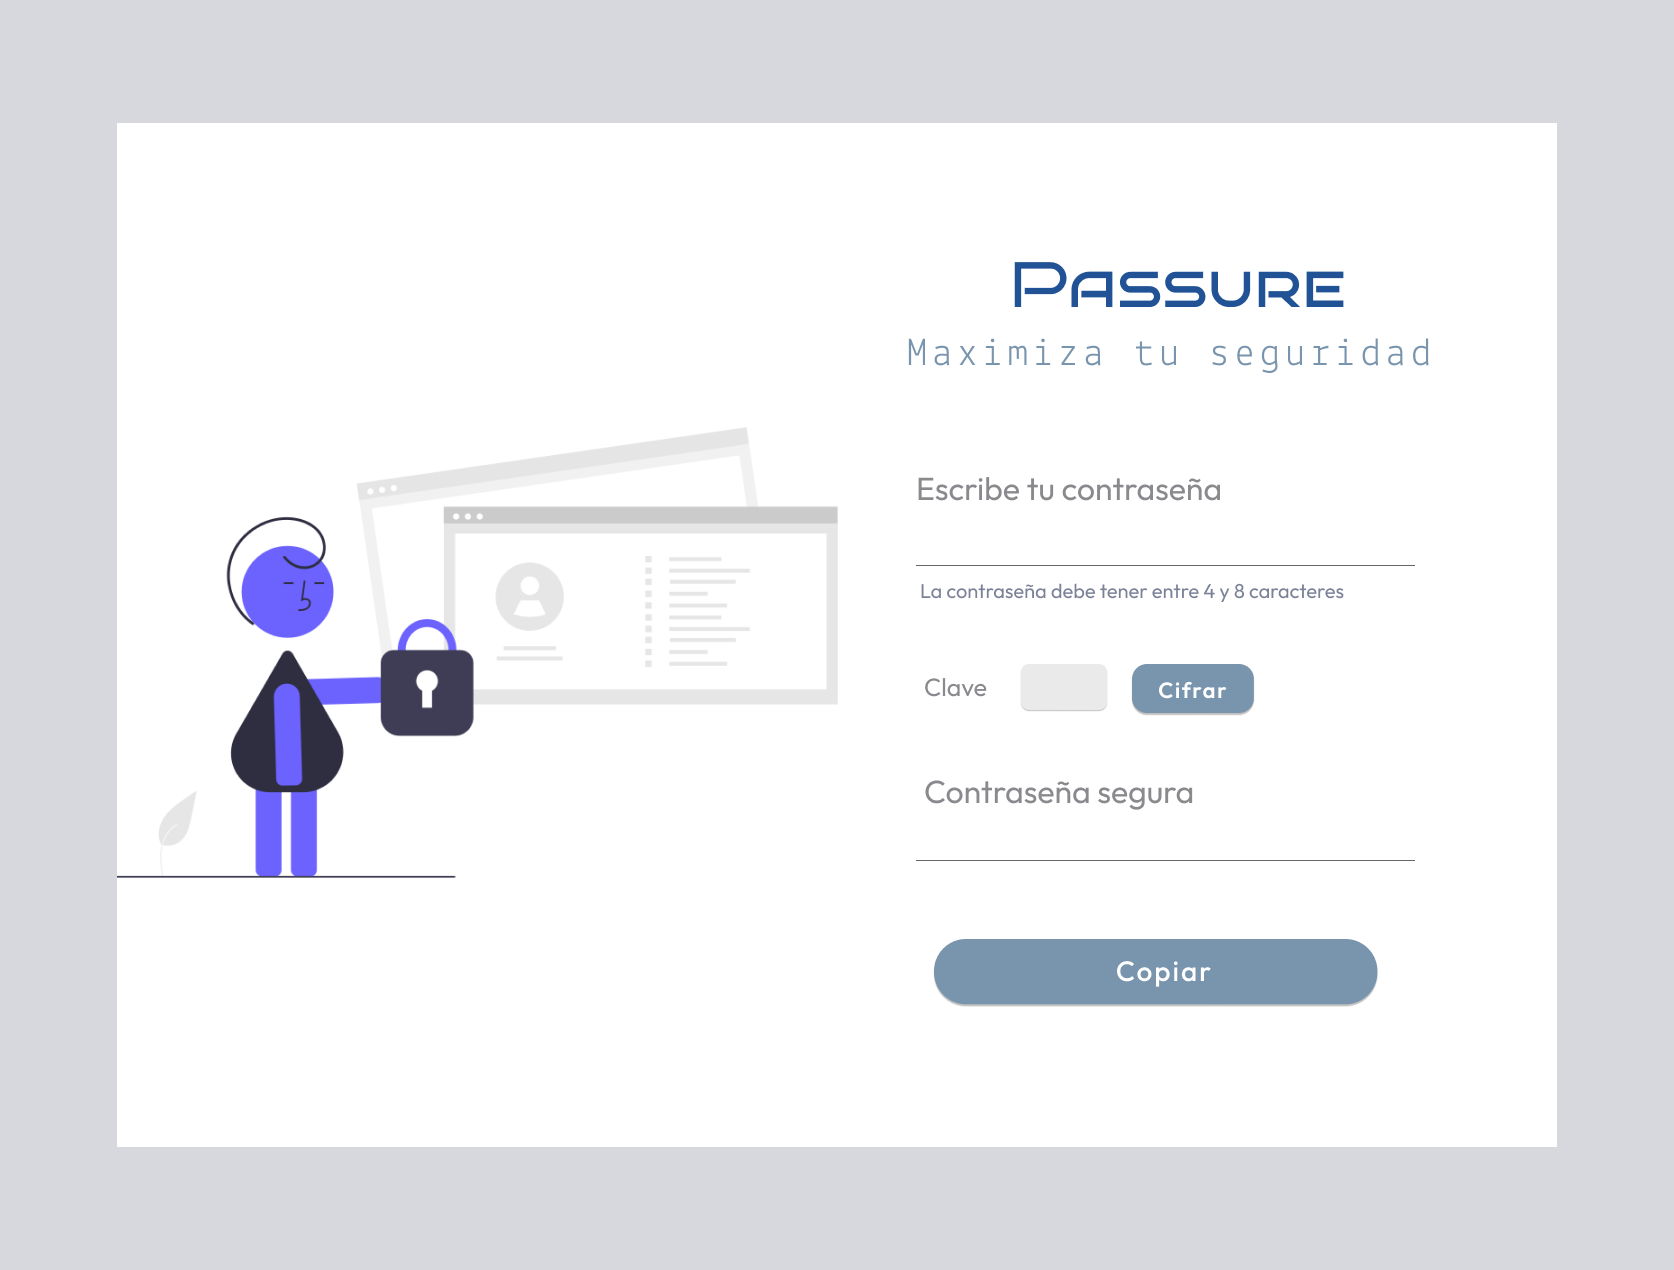
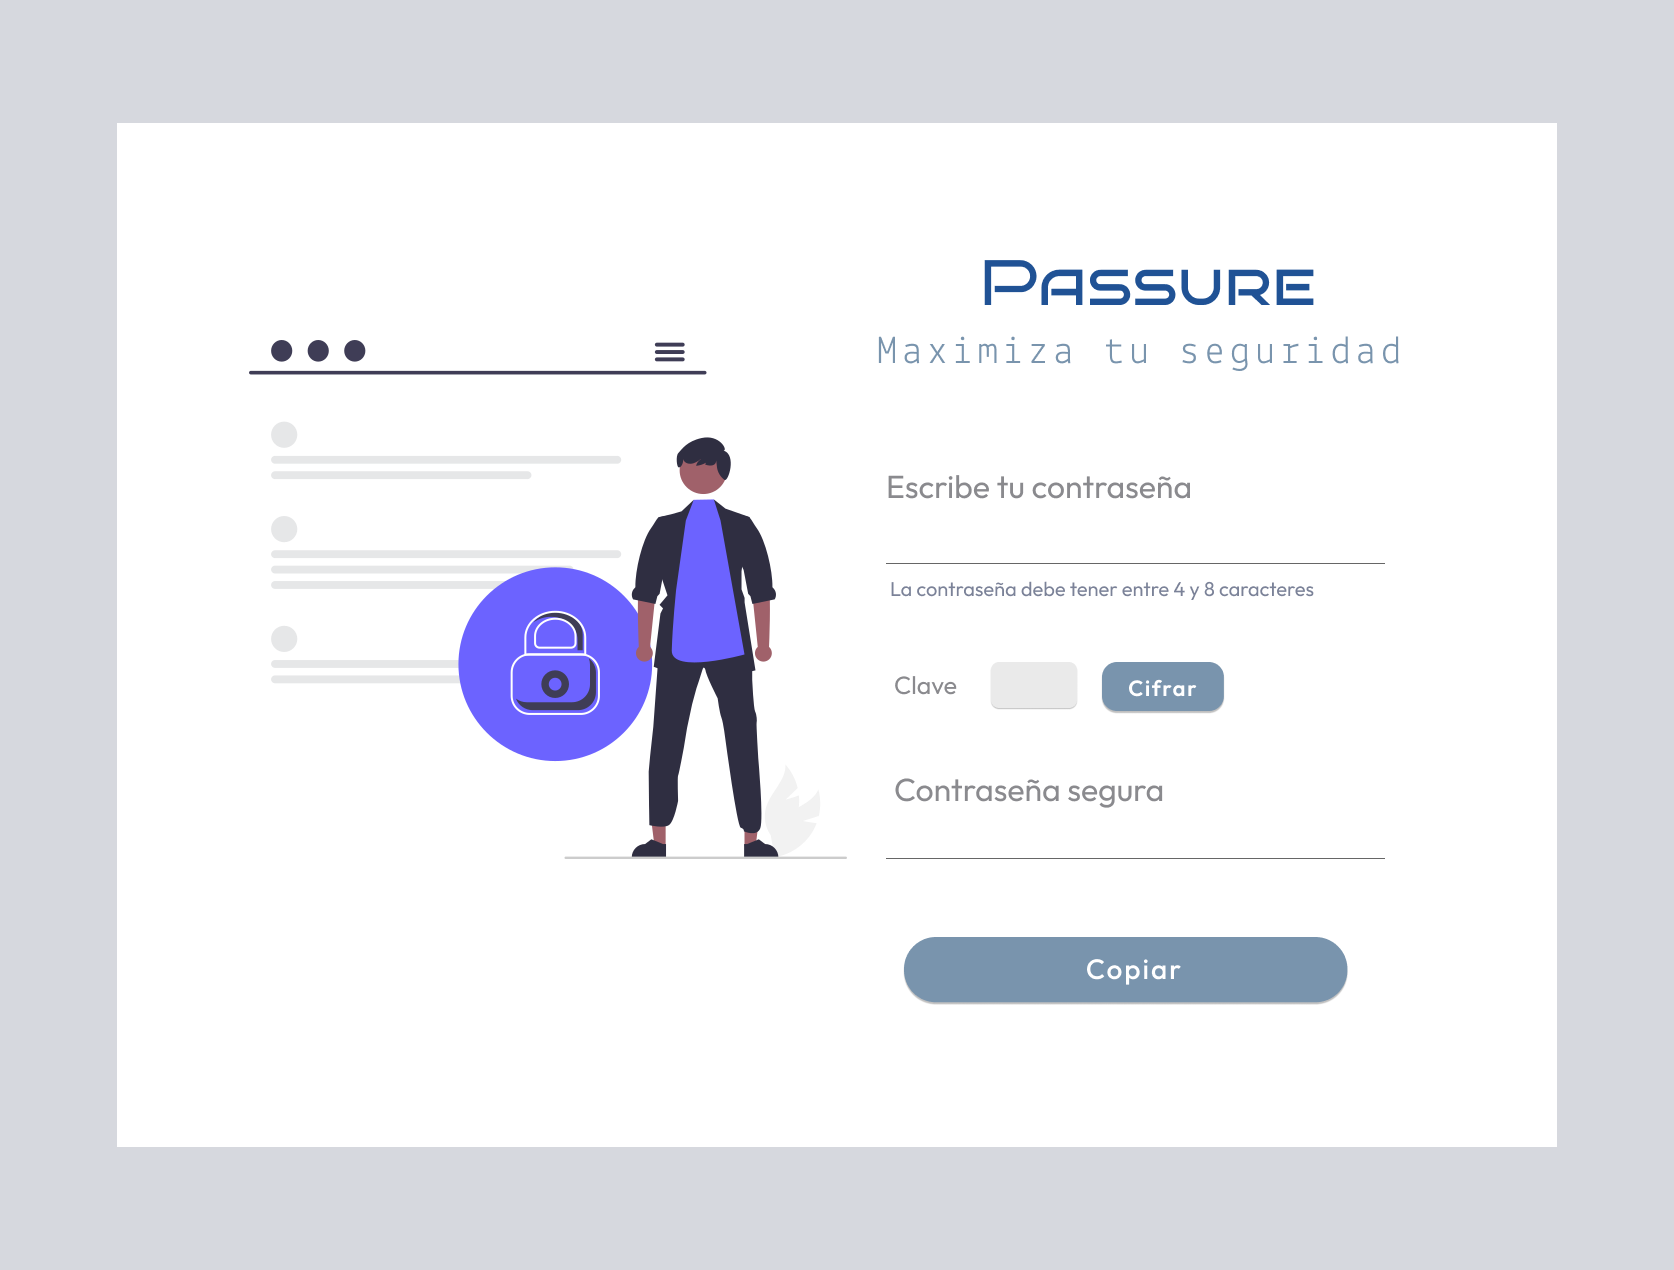
Actualizacion funcionalidades en main.js

diff --git a/src/main.js b/src/main.js
@@ -17,7 +17,7 @@ contenedorPadre.appendChild(contenedorHijo);
 
  const imgContainer = document.createElement("img");
  imgContainer.classList.add("imgContainer");
- imgContainer.setAttribute("src", "/safe-pic.png");
+ imgContainer.setAttribute("src", "/security-pic.png");
  divImgContainer.appendChild(imgContainer);
 
  //Contenedor funcionalidad
@@ -41,36 +41,53 @@ contenedorHijo.appendChild(contenedorFunciones);
   subTitulo.textContent = "Maximiza tu seguridad";
   contenedorTitulos.appendChild(subTitulo);
 
-   //Contenedor form
+//Contenedor form
  const contenedorForm = document.createElement("div");
  contenedorForm.classList.add("contenedorForm");
  contenedorFunciones.appendChild(contenedorForm);
 
-// Create a form dynamically
+// Formulario
 var form = document.createElement("form");
 form.setAttribute("method", "post");
 form.setAttribute("action", "submit.php");
 contenedorForm.appendChild(form);
 
 
-  //Titulo contraseña
-  const rellenarContraseña = document.createElement("p");
-  rellenarContraseña.textContent = "Escribe tu contraseña";
-  contenedorForm.appendChild(rellenarContraseña);
+//Titulo contrasenia
+const rellenarContraseña = document.createElement("p");
+rellenarContraseña.textContent = "Escribe tu contraseña";
+contenedorForm.appendChild(rellenarContraseña);
 
-// Sección contraseña
-var contraseña = document.createElement("input");
-contraseña.classList.add("contrasenia");
-contraseña.setAttribute("type", "text");
-contraseña.setAttribute("name", "FullName");
-contenedorForm.appendChild(contraseña);
+// Input contraseña
+const contrasenia = document.createElement("input");
+contrasenia.classList.add("contrasenia");
+contrasenia.setAttribute("id", "password");
+contrasenia.setAttribute("type", "password");
+contenedorForm.appendChild(contrasenia);
+
+const img = document.createElement("img");
+img.setAttribute("id", "boton");
+img.setAttribute("src", "/cerrar-ojo.png");
+img.alt = "ojo cerrado";
+contenedorForm.appendChild(img);
+
+let inputContrasenia = contrasenia;
+let iconOjo = img;
+iconOjo.addEventListener("click", mostrarContrasena);
+function mostrarContrasena(){
+  if (inputContrasenia.type == "password"){
+    inputContrasenia.type = "text";
+  img.setAttribute("src", "/mostrar-ojo.png"); 
+  }else {
+    inputContrasenia.type = "password";
+     img.setAttribute("src", "/cerrar-ojo.png");
+  }
+}
 
 
-
-
-  //Detalle de contraseña
+  //Detalle de contrasenia
   const instruContra = document.createElement("h5");
- instruContra.textContent = "La contraseña debe tener entre 4 y 8 caracteres";
+ instruContra.textContent = "La contrasenia debe tener entre 4 y 8 caracteres";
   contenedorForm.appendChild(instruContra);
 
 
@@ -87,19 +104,19 @@ contenedorForm.appendChild(contraseña);
       // Boton cifrado con numeros
   var cifrado = document.createElement("input");
   cifrado.classList.add("cifrado");
-  cifrado.setAttribute("id", "desplazamiento");
+  cifrado.setAttribute("id", "password");
   cifrado.setAttribute("type", "number");
-  cifrado.setAttribute("value", "0");
+
   contenedorClave.appendChild(cifrado);
 
-  // create a submit button
+  // Boton cifrar
   var botonCifrar = document.createElement("input");
   botonCifrar.classList.add("botonCifrar");
   botonCifrar.setAttribute("type", "submit");
   botonCifrar.setAttribute("value", "Cifrar");
   contenedorClave.appendChild(botonCifrar);
 
-  //Titulo contraseña
+  //Titulo contrasenia
   const ContraSegura = document.createElement("p");
  ContraSegura.textContent = "Contraseña segura";
   contenedorForm.appendChild(ContraSegura);
@@ -109,13 +126,73 @@ contenedorForm.appendChild(contraseña);
 var contraSeg = document.createElement("input");
 contraSeg.classList.add("contraseniaSeg");
 contraSeg.setAttribute("type", "text");
-contraSeg.setAttribute("name", "FullName");
 contenedorForm.appendChild(contraSeg);
 
+ //Contenedor Botones finales 
+ const contenedorBtns = document.createElement("div");
+ contenedorBtns.classList.add("contenedorBtns");
+ contenedorForm.appendChild(contenedorBtns);
 
-  // create a submit button
+  // Boton Copiar
   var s = document.createElement("input");
   s.classList.add("s");
   s.setAttribute("type", "submit");
   s.setAttribute("value", "Copiar");
-  contenedorForm.appendChild(s);
+  contenedorBtns.appendChild(s);
+
+
+  // Boton Limpiar
+  var limpiar = document.createElement("input");
+  limpiar.classList.add("limpiar");
+  limpiar.setAttribute("type", "reset");
+  limpiar.setAttribute("value", "Limpiar");
+  contenedorBtns.appendChild(limpiar);
+
+
+  limpiar.onclick = () => {
+    contrasenia.value = "";
+    contraSeg.value = "";
+    cifrado.id = ""
+  };
+
+ const cipher = {
+    cifrar:(texto, desplazamiento) =>{ //propiedad cifrar tiene los parámetros contrasenia y despla//
+      const letras = "ABCDEFGHIJKLMNOPQRSTUVWXYZ";
+       cifrado = (desplazamiento % 26 + 26) %26; //fórmula cipher para desplazarse, 26 letras del alfabeto
+      return texto.replace(/[A-Z]/ig, c=> letras[(letras.indexOf(c)+desplazamiento)%26]);    
+  }
+  }
+
+ botonCifrar.addEventListener("click", function(){ //LLama a BtnCipher//
+  let texto =contrasenia.value; //Llama al contrasenia//
+  let desplazamiento = cifrado.value;
+contraSeg.value = cipher.cifrar(texto,desplazamiento); //Llama al PasswordCipher donde llama a la const cipher.cifrar para que desplace//
+}, true);
+
+   // Funcionamiento botones
+   s.addEventListener( "click" , () =>{
+    contraSeg.select(); //Select hace focus al campo y el copy lo mueve al portapapeles
+    document.execCommand("copy"); //   
+      alert("Tu mensaje ha sido copiado!");
+  });  
+
+
+  // Faltan
+  1. Modularizar
+  2. Terminar funcionalidades
+      Ingresar img ojo en los passwords inputs 
+      Al hacer click en limpiar que se limpie la clave
+      Que cifre de más de uno 
+ 
+
+ contrasenia.addEventListener("keyup", function(){ //Llama al Id contrasenia desde el html//
+      this.value = this.value.toUpperCase(); //Le estamos dando la funcion de poner en mayusculas el mensaje que se esta ingresando
+  },true);
+
+
+
+
+
+
+
+

diff --git a/src/arreglar.js b/src/arreglar.js
@@ -1,22 +1,22 @@
-import cipher from './cipher-funcionalidad';
+import cipher from './cipher.js';
 
 window.addEventListener("load", inicio, true);
 
 function inicio(){
-    document.getElementsByClassName("contrasenia").addEventListener("keyup", function(){ //Llama al Id contrasenia desde el html//
+    document.getElementById("PasswordText").addEventListener("keyup", function(){ //Llama al Id Passwordtext desde el html//
         this.value = this.value.toUpperCase(); //Le estamos dando la funcion de poner en mayusculas el mensaje que se esta ingresando
     },true);
 
 
-document.getElementsByClassName("BtnCipher").addEventListener("click", function(){ //LLama a BtnCipher//
-    let texto = document.getElementsByClassName("contrasenia").value; //Llama al contrasenia//
-    let desplazamiento = document.getElementsByClassName("desplazamiento").value; //Llama al desplazamiento//
-document.getElementsByClassName("PasswordCipher").value = cipher.cifrar(texto, desplazamiento); //Llama al PasswordCipher donde llama a la const cipher.cifrar para que desplace//
+document.getElementById("BtnCipher").addEventListener("click", function(){ //LLama a BtnCipher//
+    let texto = document.getElementById("PasswordText").value; //Llama al Passwordtext//
+    let desplazamiento = document.getElementById("desplazamiento").value; //Llama al desplazamiento//
+document.getElementById("PasswordCipher").value = cipher.cifrar(texto, desplazamiento); //Llama al PasswordCipher donde llama a la const cipher.cifrar para que desplace//
 }, true);
 }
 
  
-    document.getElementsByClassName( "BtnCopy" ).addEventListener( "click" , () =>{
+    document.getElementById( "BtnCopy" ).addEventListener( "click" , () =>{
     PasswordCipher.select(); //Select hace focus al campo y el copy lo mueve al portapapeles
     document.execCommand("copy"); //   
       alert("Tu mensaje ha sido copiado!");

diff --git a/src/style.css b/src/style.css
@@ -27,15 +27,21 @@
  }
 
  .divImgContainer{
-   height: 53vh;
-   width: 120vh;
+  height: 55vh;
+  width: 91vh;
    display: flex;
    justify-content: flex-start;
    margin: 11% 0 10% 0;
  }
  .imgContainer{
-   width: 61vh;
-   height: 50vh;
+  
+  height: 52vh;
+    width: 53vh;
+ }
+
+ img{
+width: 10%;
+height: 10%;
  }
 
  .contenedorFunciones{
@@ -143,9 +149,16 @@ h2{
    font-family: outfit;
    font-size: unset;
  }
- .s{
-   height: 9%;
-   width: 60%;
+
+ .contenedorBtns{
+  width: 95%;
+  display: flex;
+  flex-direction: row;
+  justify-content: space-around;
+ }
+ .s, .limpiar{
+  height: 63%;
+  width: 37%;
    margin-top: 5%;
    border-radius: 40px;
    border: none;
@@ -153,7 +166,10 @@ h2{
    background-color: #6a88a4;
    font-family: outfit;
    font-size: larger;
+   padding: 1%;
  }
+
+
 
 /* otra manera para centrar un div : display: grid;
 place-items: center;*/
